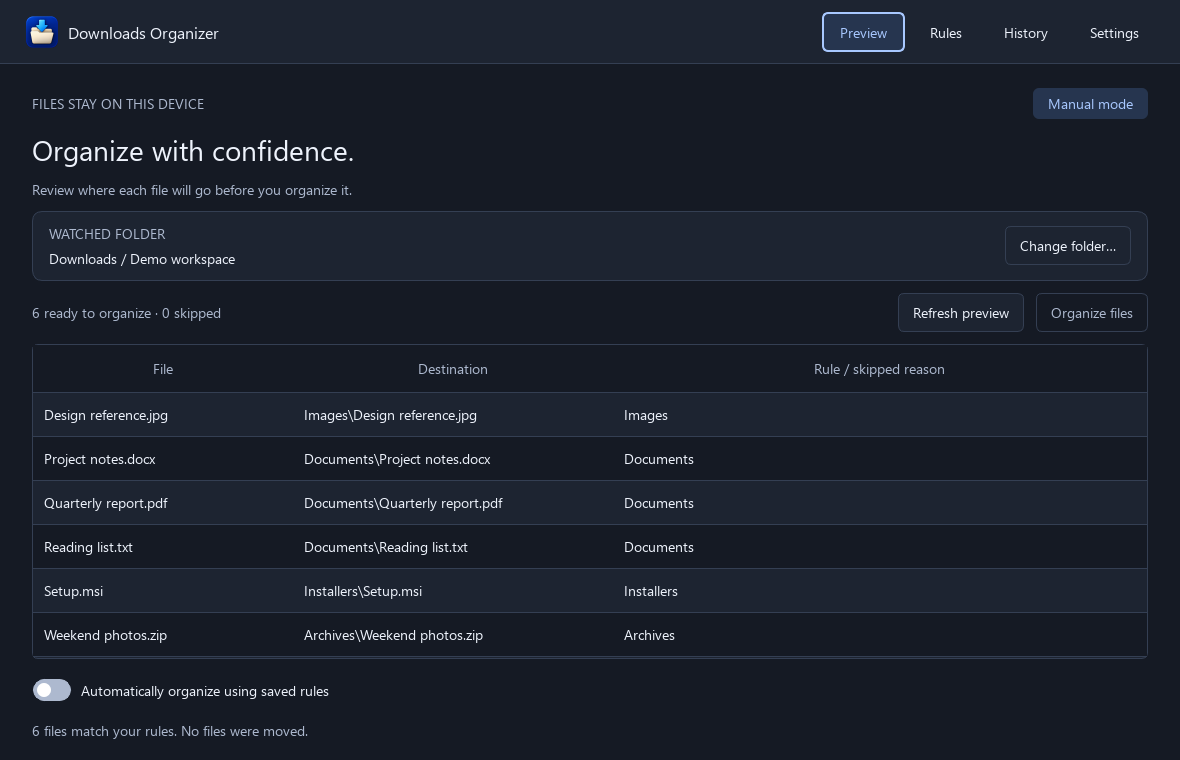
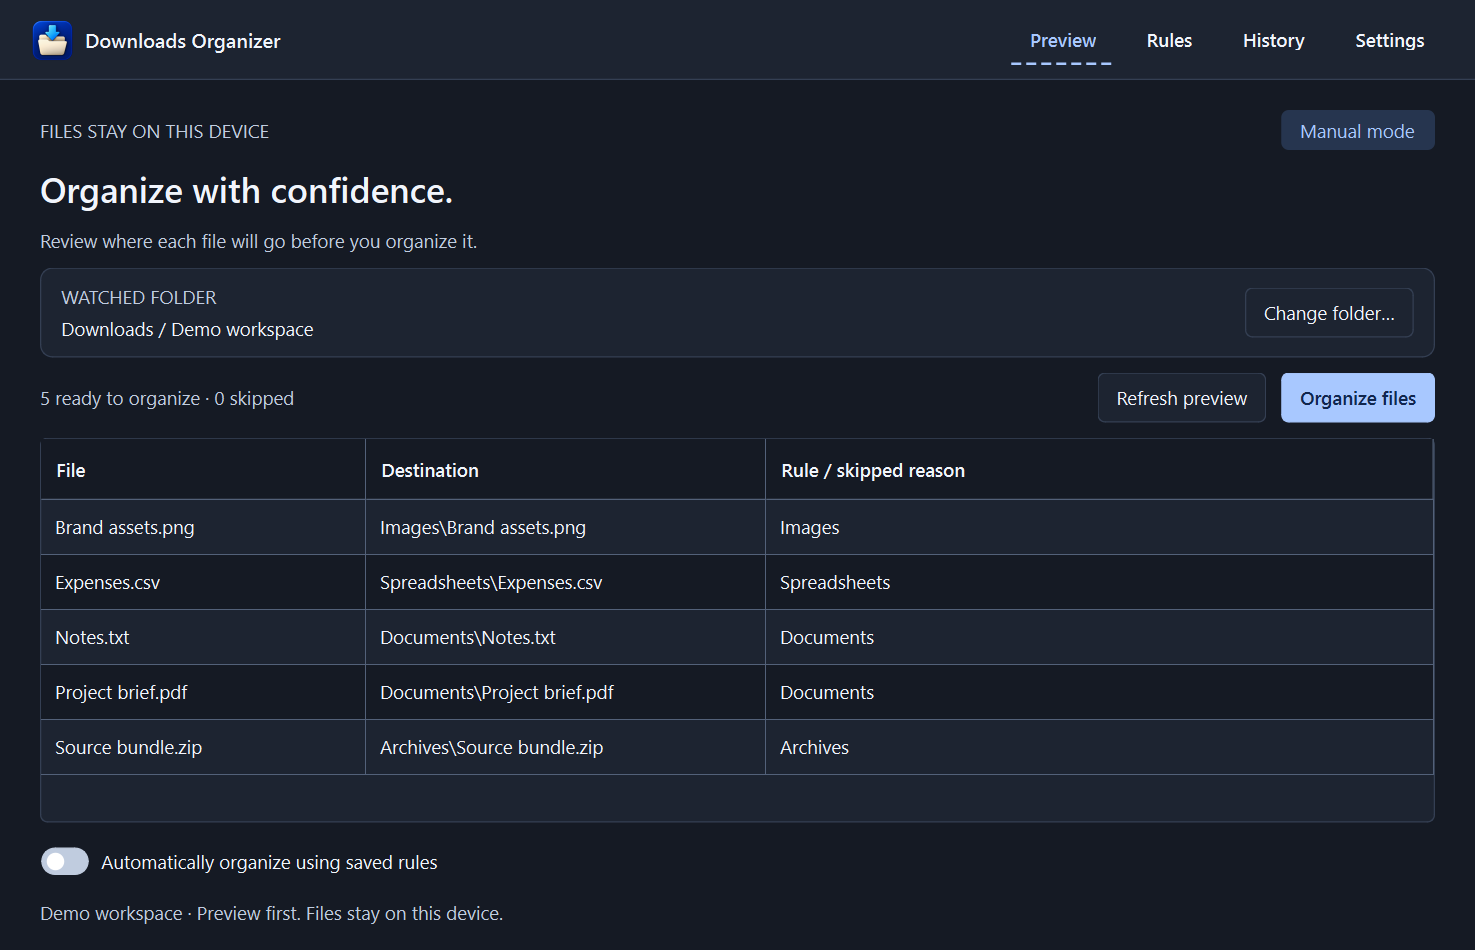
docs: refresh README tour and screenshots for the released UI

diff --git a/README.md b/README.md
@@ -14,11 +14,11 @@ Preview file moves, build your own rules, and let a local desktop app handle the
 [![MIT license](https://img.shields.io/badge/license-MIT-2457d6?style=flat-square)](LICENSE)
 ![Local](https://img.shields.io/badge/files-stay_local-2457d6?style=flat-square)
 
-[Download 1.1.0](https://github.com/kashnordeen/downloads-organizer/releases/tag/v1.1.0) · [How it works](#daily-use) · [Build and install](docs/BUILDING.md) · [Validation](VALIDATION.md)
+[Download 1.1.0](https://github.com/kashnordeen/downloads-organizer/releases/tag/v1.1.0) · [Explore the UI](#explore-the-new-ui) · [How it works](#daily-use) · [Build and install](docs/BUILDING.md)
 
-<img src="docs/media/workspace-tour.gif" width="1000" alt="Animated tour of the real Downloads Organizer: preview demo downloads, edit rules, review move history, and open settings">
+<img src="docs/media/workspace-tour.gif" width="1000" alt="Downloads Organizer 1.1.0 animated tour: Preview, numbered Rules, timestamped History and Settings in Day and Night modes">
 
-*Actual application UI with demonstration files. The tour loops automatically.*
+*Downloads Organizer 1.1.0, captured from the real Windows app with demonstration data and redacted paths. The tour loops through both themes.*
 
 </div>
 
@@ -32,11 +32,59 @@ Preview file moves, build your own rules, and let a local desktop app handle the
 | **Automatic catch-up** | On reopening, ready files downloaded while stopped are processed before later ready arrivals. |
 | **Background sorting** | Keep the app in the system tray; optionally start it at login. |
 | **History and undo** | Restore unchanged files, or resolve reviewed moves by moving to the destination or leaving the file in Downloads. |
-| **A focused workspace** | Separate Preview, Rules, History, and Settings pages, with blue light/dark themes. |
+| **A focused workspace** | Separate Preview, Rules, History, and Settings pages, with smooth tab transitions and a saved Day/Night toggle. |
 | **Visible progress and cancellation** | See the current file, phase, percentage, and bytes. Cancel stops remaining files and interrupts copying and hashing. |
 | **Optional update notices** | Check stable GitHub releases on startup or manually. You choose when to download and install. |
 
 No account, cloud service, telemetry, or administrator privileges are required for normal operation. Python is included in the downloads.
+
+## Explore the new UI
+
+Four tabs keep each step easy to find. The selected tab has a blue underline; a dashed underline shows keyboard focus. Use **Alt+1** through **Alt+4** to switch pages.
+
+| Page | What you can do |
+| :--- | :--- |
+| **Preview** | Review file destinations before organizing. During a move, see progress and use Cancel to request a safe stop. |
+| **Rules** | Follow the numbered priority order, toggle rules, edit filters and destinations in a form, then save. |
+| **History** | Read each move's local date/time, undo unchanged files, or resolve copies marked for review. |
+| **Settings** | Choose Day/Night appearance, tray behavior, optional login startup and update notices. Scroll for more options. |
+
+**Day mode — review destinations before anything moves**
+
+<img src="docs/media/workspace-light.png" width="1000" alt="Day-mode Preview with five demo downloads, proposed category destinations and the Organize files button">
+
+<details>
+<summary><strong>Night mode and the rest of the workspace</strong></summary>
+
+**Night mode**
+
+<img src="docs/media/workspace-dark.png" width="1000" alt="Night-mode Preview with blue accents, clear table dividers and the same demonstration files">
+
+**Numbered Rules**
+
+<img src="docs/media/workspace-rules.png" width="1000" alt="Rules page with priority numbers, enabled switches, extensions, destinations and rule editing actions">
+
+**Edit a rule**
+
+<img src="docs/media/rule-editor.png" width="600" alt="Rule editor with name, extensions, optional filename filter, destination picker and Save and Cancel buttons">
+
+**History with timestamps**
+
+<img src="docs/media/workspace-history.png" width="1000" alt="History page showing demo move paths, completion states and local date and time in Details">
+
+**Appearance and preferences**
+
+<img src="docs/media/workspace-settings.png" width="1000" alt="Scrollable Settings page with Night mode, tray, login startup and optional update-notification toggles">
+
+**Tray menus follow your chosen theme**
+
+| Day mode | Night mode |
+| :---: | :---: |
+| <img src="docs/media/tray-day.png" width="275" alt="Day-mode tray menu with Show organizer, Resume automatic sorting and Quit"> | <img src="docs/media/tray-night.png" width="275" alt="Night-mode tray menu with readable text and a blue selected item"> |
+
+Screenshots use demonstration data. Personal paths are redacted, and real Downloads are untouched.
+
+</details>
 
 ## Platform status
 
@@ -103,7 +151,7 @@ Use a supported Python version. On Linux, install the display libraries required
 4. **Organize files.** Confirm the manual move, or enable automatic sorting after reviewing your rules.
 5. **Review History.** Select a completed move to undo. If a row says **review**, select it and choose **Move to destination** or **Leave in Downloads**. The app verifies copies before changing either file. A file left in Downloads is skipped on future scans unless it changes.
 
-Switch pages with the top navigation or **Alt+1** through **Alt+4**. Tabs use a short slide when desktop UI effects are enabled. Each page has an opaque background, so previous pages cannot show through during transitions. Rule row numbers show their current priority and update when rules are added, removed or reordered. Resize table columns or hover over a path to read it in full. Double-click a rule to open its editor. Navigation preserves the current preview and automatic monitoring. Editing rules or changing the watched folder pauses sorting and invalidates the preview.
+Switch pages with the top navigation or **Alt+1** through **Alt+4**. Tabs use a short slide when desktop UI effects are enabled. Rule row numbers show their current priority and update when rules are added, removed or reordered. Resize table columns or hover over a path to read it in full. Double-click a rule to open its editor. Navigation preserves the current preview and automatic monitoring. Editing rules or changing the watched folder pauses sorting and invalidates the preview.
 
 The current tab has a blue underline; a dashed underline shows focus. Larger text and stronger contrast apply throughout the workspace and dialogs.
 
